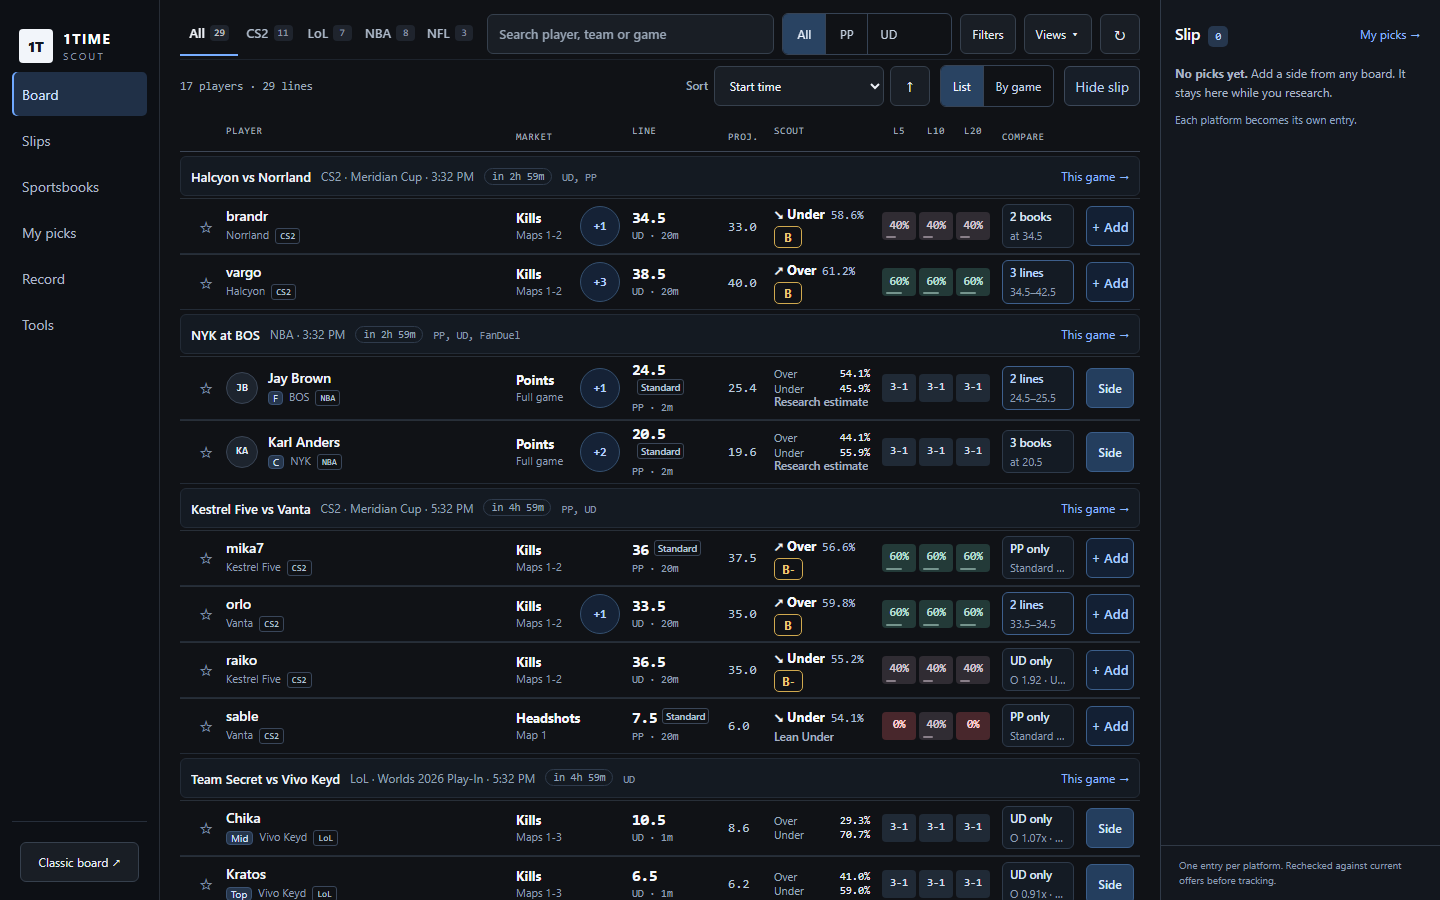
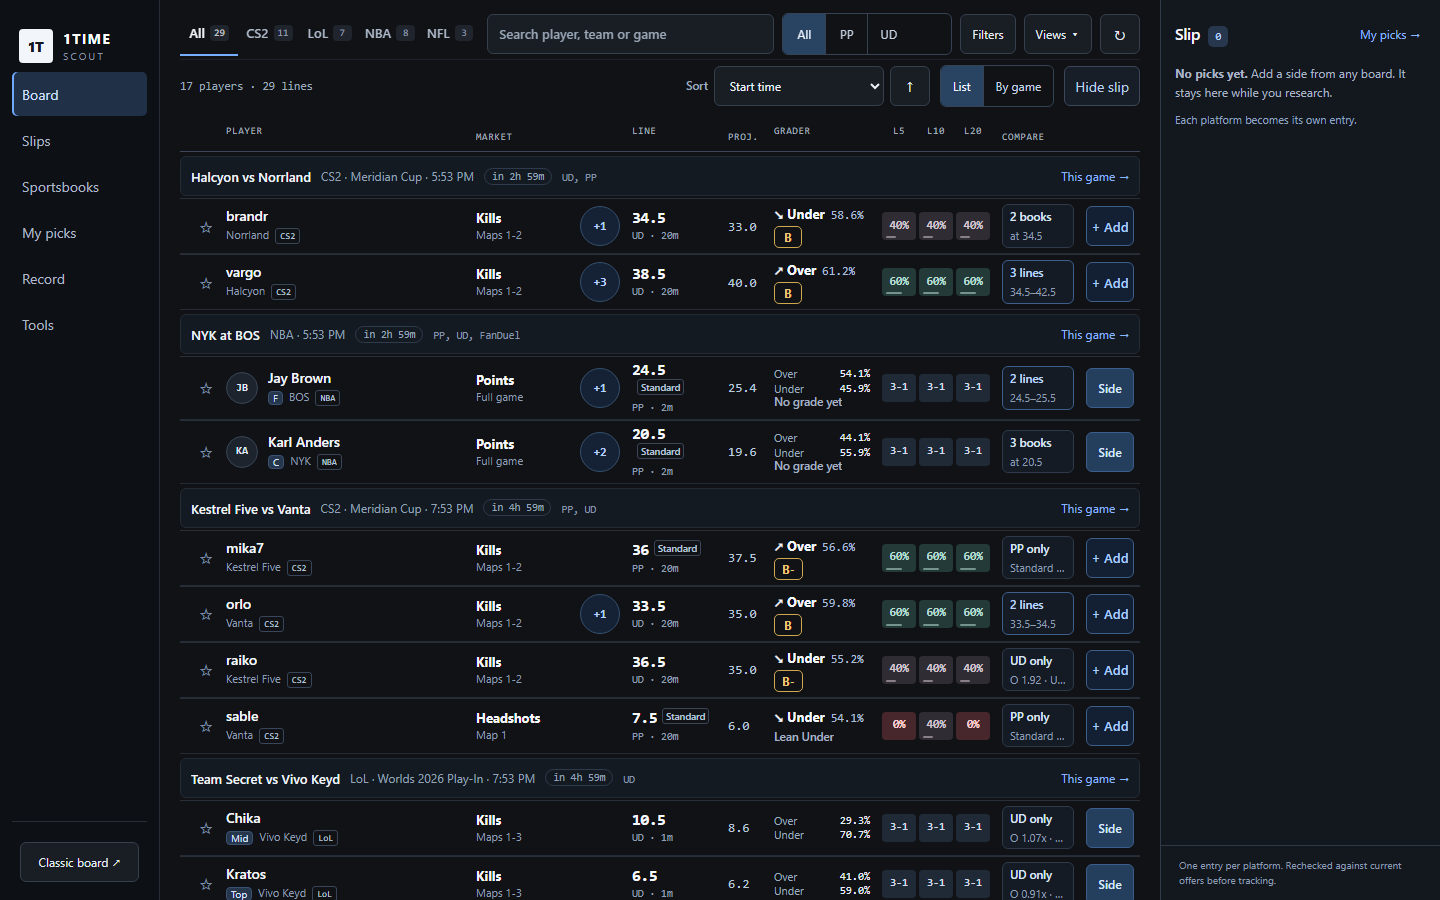
Rename follow-up: three browser tests read the column and group headings in upper/lower case; a test-written log file is no longer in the tree. Tests only.

diff --git a/tests/test_books_visibility_browser.py b/tests/test_books_visibility_browser.py
@@ -165,7 +165,7 @@ def test_draftkings_in_main_board_selector(browser, env, monkeypatch, width):
         first = p.locator('tr[data-record]').first
         assert 'side not supplied' in first.text_content().lower() or ('Over' in first.locator('.h-c-scout').inner_text() and 'Under' in first.locator('.h-c-scout').inner_text())
         assert not p.locator('tr[data-record] button:has-text("+ Add")').count()
-        assert p.locator('th.h-c-scout').inner_text().strip().lower() == 'scout'          # the same column as every other book
+        assert p.locator('th.h-c-scout').inner_text().strip().lower() == 'grader'          # the same column as every other book
         p.locator('tr[data-record] .h-player').first.click()
         p.locator('.h-extra-detail').wait_for()
         assert '-117 / +105' in p.locator('.h-extra-detail').inner_text()

diff --git a/tests/test_research_hub_browser.py b/tests/test_research_hub_browser.py
@@ -680,7 +680,7 @@ def test_board_rows_show_real_counts_placeholders_chips_and_compare(ctx, env, si
     assert p.locator('#hub-detail .h-full-research a').get_attribute('href').startswith('/sports?view=classic#/player/')
     heads = p.locator('#hub-detail .h-stat-group h5').all_inner_texts()
     # card-and-chips 2026-11-06: factor-engine rows (weight 0) are headed as not part of Grader's forecast, never "Model inputs"
-    assert {'MATCHUP', 'AVERAGES', "MATCHUP NUMBERS (NOT PART OF SCOUT'S FORECAST)"} <= {h.upper() for h in heads} and 'MODEL INPUTS' not in {h.upper() for h in heads}, heads
+    assert {'MATCHUP', 'AVERAGES', "MATCHUP NUMBERS (NOT PART OF GRADER'S FORECAST)"} <= {h.upper() for h in heads} and 'MODEL INPUTS' not in {h.upper() for h in heads}, heads
     no_h_scroll(p)
     assert not p.errors
 

diff --git a/tests/test_upgrade_browser.py b/tests/test_upgrade_browser.py
@@ -407,7 +407,7 @@ def test_no_member_nav_shows_results(ctx, env):
 def test_sports_board_keeps_its_table_and_adds_books_and_research(ctx, env):
     p = nba_board(ctx, env)
     head = p.locator("table.sw-tb thead").inner_text().upper()
-    for word in ("PLAYER", "STAT", "LINE", "BOOK", "LEAN", "SCOUT", "MARKET", "EDGE", "L10", "L5", "CONF"):
+    for word in ("PLAYER", "STAT", "LINE", "BOOK", "LEAN", "GRADER", "MARKET", "EDGE", "L10", "L5", "CONF"):
         assert word in head, word
     assert p.locator("tr.sw-tb-row .u-bk").count() >= 2
     assert p.evaluate("document.querySelector('.sw-tb-wrap').scrollWidth <= document.querySelector('.sw-tb-wrap').clientWidth + 1"), p.evaluate("""() => {
